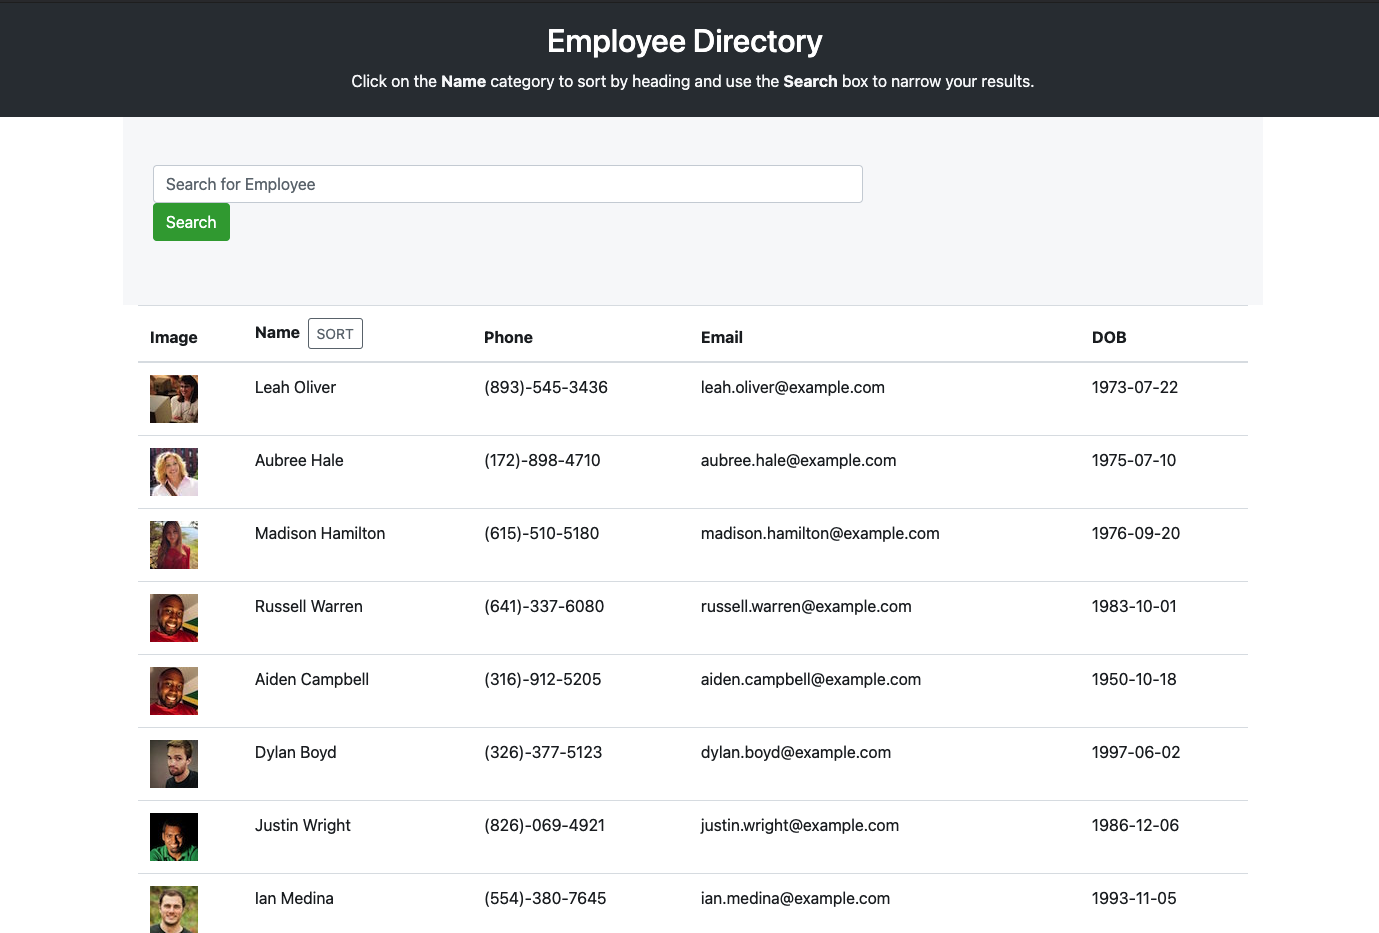
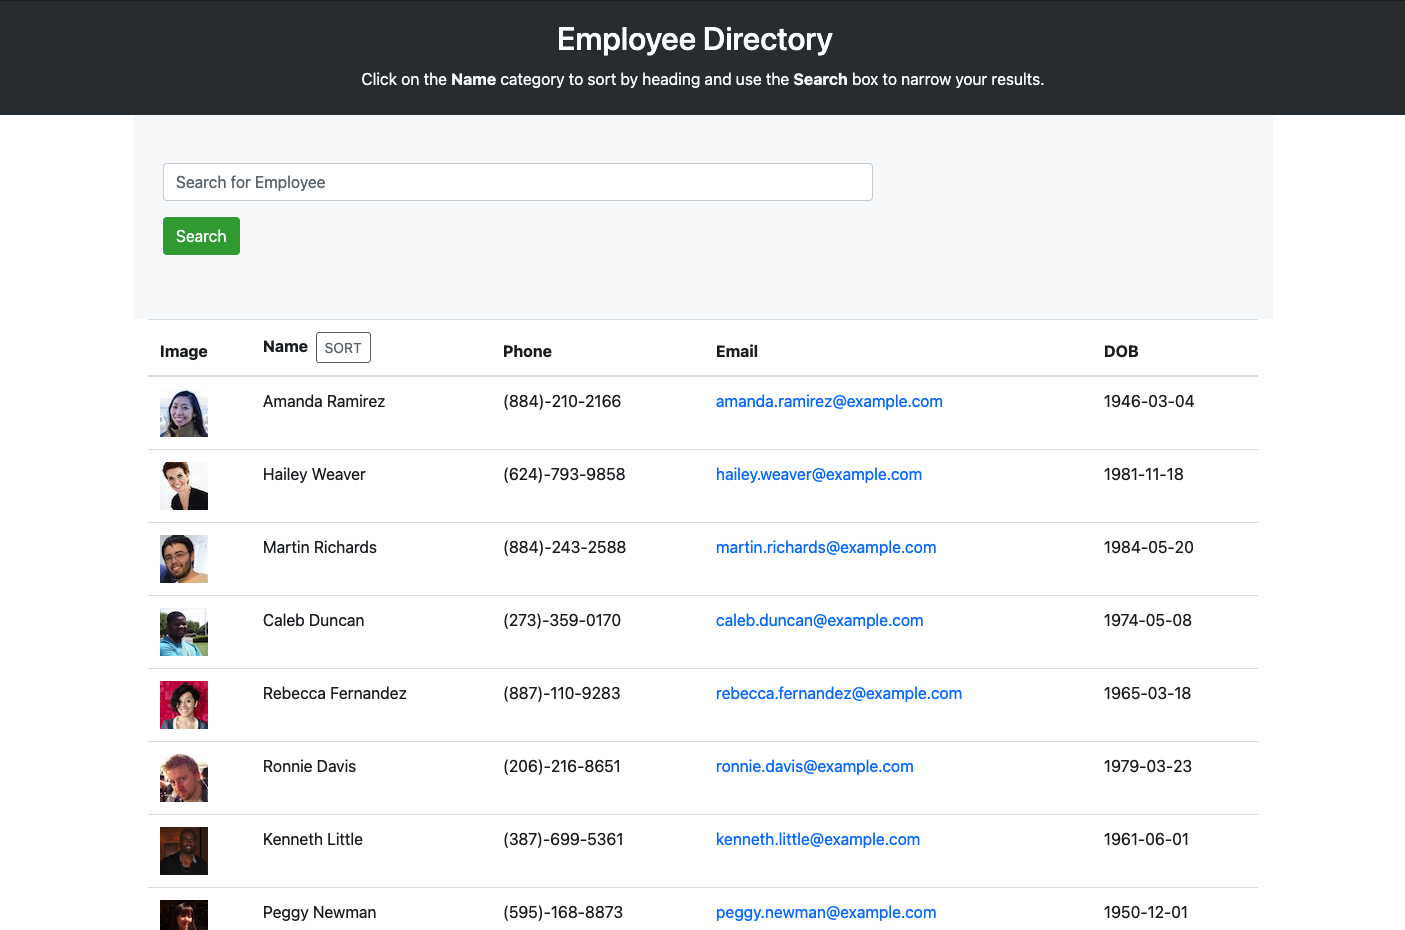
Updates

diff --git a/index.html b/index.html
@@ -1,1 +1,1 @@
-<!doctype html><html lang="en"><head><meta charset="utf-8"/><link rel="icon" href="/expert-employee-directory/favicon.ico"/><meta name="viewport" content="width=device-width,initial-scale=1"/><meta name="theme-color" content="#000000"/><meta name="description" content="Web site created using create-react-app"/><link rel="apple-touch-icon" href="/expert-employee-directory/logo192.png"/><link rel="manifest" href="/expert-employee-directory/manifest.json"/><title>Employee Directory</title><link href="/expert-employee-directory/static/css/2.150d169a.chunk.css" rel="stylesheet"><link href="/expert-employee-directory/static/css/main.4706ad10.chunk.css" rel="stylesheet"></head><body><noscript>You need to enable JavaScript to run this app.</noscript><div id="root"></div><script>!function(e){function r(r){for(var n,i,a=r[0],c=r[1],l=r[2],f=0,s=[];f<a.length;f++)i=a[f],Object.prototype.hasOwnProperty.call(o,i)&&o[i]&&s.push(o[i][0]),o[i]=0;for(n in c)Object.prototype.hasOwnProperty.call(c,n)&&(e[n]=c[n]);for(p&&p(r);s.length;)s.shift()();return u.push.apply(u,l||[]),t()}function t(){for(var e,r=0;r<u.length;r++){for(var t=u[r],n=!0,a=1;a<t.length;a++){var c=t[a];0!==o[c]&&(n=!1)}n&&(u.splice(r--,1),e=i(i.s=t[0]))}return e}var n={},o={1:0},u=[];function i(r){if(n[r])return n[r].exports;var t=n[r]={i:r,l:!1,exports:{}};return e[r].call(t.exports,t,t.exports,i),t.l=!0,t.exports}i.e=function(e){var r=[],t=o[e];if(0!==t)if(t)r.push(t[2]);else{var n=new Promise((function(r,n){t=o[e]=[r,n]}));r.push(t[2]=n);var u,a=document.createElement("script");a.charset="utf-8",a.timeout=120,i.nc&&a.setAttribute("nonce",i.nc),a.src=function(e){return i.p+"static/js/"+({}[e]||e)+"."+{3:"28690317"}[e]+".chunk.js"}(e);var c=new Error;u=function(r){a.onerror=a.onload=null,clearTimeout(l);var t=o[e];if(0!==t){if(t){var n=r&&("load"===r.type?"missing":r.type),u=r&&r.target&&r.target.src;c.message="Loading chunk "+e+" failed.\n("+n+": "+u+")",c.name="ChunkLoadError",c.type=n,c.request=u,t[1](c)}o[e]=void 0}};var l=setTimeout((function(){u({type:"timeout",target:a})}),12e4);a.onerror=a.onload=u,document.head.appendChild(a)}return Promise.all(r)},i.m=e,i.c=n,i.d=function(e,r,t){i.o(e,r)||Object.defineProperty(e,r,{enumerable:!0,get:t})},i.r=function(e){"undefined"!=typeof Symbol&&Symbol.toStringTag&&Object.defineProperty(e,Symbol.toStringTag,{value:"Module"}),Object.defineProperty(e,"__esModule",{value:!0})},i.t=function(e,r){if(1&r&&(e=i(e)),8&r)return e;if(4&r&&"object"==typeof e&&e&&e.__esModule)return e;var t=Object.create(null);if(i.r(t),Object.defineProperty(t,"default",{enumerable:!0,value:e}),2&r&&"string"!=typeof e)for(var n in e)i.d(t,n,function(r){return e[r]}.bind(null,n));return t},i.n=function(e){var r=e&&e.__esModule?function(){return e.default}:function(){return e};return i.d(r,"a",r),r},i.o=function(e,r){return Object.prototype.hasOwnProperty.call(e,r)},i.p="/expert-employee-directory/",i.oe=function(e){throw console.error(e),e};var a=this["webpackJsonpexpert-employee-directory"]=this["webpackJsonpexpert-employee-directory"]||[],c=a.push.bind(a);a.push=r,a=a.slice();for(var l=0;l<a.length;l++)r(a[l]);var p=c;t()}([])</script><script src="/expert-employee-directory/static/js/2.0770690c.chunk.js"></script><script src="/expert-employee-directory/static/js/main.d8e5f72f.chunk.js"></script></body></html>
+<!doctype html><html lang="en"><head><meta charset="utf-8"/><link rel="icon" href="/expert-employee-directory/favicon.ico"/><meta name="viewport" content="width=device-width,initial-scale=1"/><meta name="theme-color" content="#000000"/><meta name="description" content="Web site created using create-react-app"/><link rel="apple-touch-icon" href="/expert-employee-directory/logo192.png"/><link rel="manifest" href="/expert-employee-directory/manifest.json"/><title>Employee Directory</title><link href="/expert-employee-directory/static/css/2.150d169a.chunk.css" rel="stylesheet"><link href="/expert-employee-directory/static/css/main.4706ad10.chunk.css" rel="stylesheet"></head><body><noscript>You need to enable JavaScript to run this app.</noscript><div id="root"></div><script>!function(e){function r(r){for(var n,i,a=r[0],c=r[1],l=r[2],f=0,s=[];f<a.length;f++)i=a[f],Object.prototype.hasOwnProperty.call(o,i)&&o[i]&&s.push(o[i][0]),o[i]=0;for(n in c)Object.prototype.hasOwnProperty.call(c,n)&&(e[n]=c[n]);for(p&&p(r);s.length;)s.shift()();return u.push.apply(u,l||[]),t()}function t(){for(var e,r=0;r<u.length;r++){for(var t=u[r],n=!0,a=1;a<t.length;a++){var c=t[a];0!==o[c]&&(n=!1)}n&&(u.splice(r--,1),e=i(i.s=t[0]))}return e}var n={},o={1:0},u=[];function i(r){if(n[r])return n[r].exports;var t=n[r]={i:r,l:!1,exports:{}};return e[r].call(t.exports,t,t.exports,i),t.l=!0,t.exports}i.e=function(e){var r=[],t=o[e];if(0!==t)if(t)r.push(t[2]);else{var n=new Promise((function(r,n){t=o[e]=[r,n]}));r.push(t[2]=n);var u,a=document.createElement("script");a.charset="utf-8",a.timeout=120,i.nc&&a.setAttribute("nonce",i.nc),a.src=function(e){return i.p+"static/js/"+({}[e]||e)+"."+{3:"28690317"}[e]+".chunk.js"}(e);var c=new Error;u=function(r){a.onerror=a.onload=null,clearTimeout(l);var t=o[e];if(0!==t){if(t){var n=r&&("load"===r.type?"missing":r.type),u=r&&r.target&&r.target.src;c.message="Loading chunk "+e+" failed.\n("+n+": "+u+")",c.name="ChunkLoadError",c.type=n,c.request=u,t[1](c)}o[e]=void 0}};var l=setTimeout((function(){u({type:"timeout",target:a})}),12e4);a.onerror=a.onload=u,document.head.appendChild(a)}return Promise.all(r)},i.m=e,i.c=n,i.d=function(e,r,t){i.o(e,r)||Object.defineProperty(e,r,{enumerable:!0,get:t})},i.r=function(e){"undefined"!=typeof Symbol&&Symbol.toStringTag&&Object.defineProperty(e,Symbol.toStringTag,{value:"Module"}),Object.defineProperty(e,"__esModule",{value:!0})},i.t=function(e,r){if(1&r&&(e=i(e)),8&r)return e;if(4&r&&"object"==typeof e&&e&&e.__esModule)return e;var t=Object.create(null);if(i.r(t),Object.defineProperty(t,"default",{enumerable:!0,value:e}),2&r&&"string"!=typeof e)for(var n in e)i.d(t,n,function(r){return e[r]}.bind(null,n));return t},i.n=function(e){var r=e&&e.__esModule?function(){return e.default}:function(){return e};return i.d(r,"a",r),r},i.o=function(e,r){return Object.prototype.hasOwnProperty.call(e,r)},i.p="/expert-employee-directory/",i.oe=function(e){throw console.error(e),e};var a=this["webpackJsonpexpert-employee-directory"]=this["webpackJsonpexpert-employee-directory"]||[],c=a.push.bind(a);a.push=r,a=a.slice();for(var l=0;l<a.length;l++)r(a[l]);var p=c;t()}([])</script><script src="/expert-employee-directory/static/js/2.0770690c.chunk.js"></script><script src="/expert-employee-directory/static/js/main.2af9a9cf.chunk.js"></script></body></html>

diff --git a/static/js/main.2af9a9cf.chunk.js b/static/js/main.2af9a9cf.chunk.js
@@ -1,0 +1,2 @@
+(this["webpackJsonpexpert-employee-directory"]=this["webpackJsonpexpert-employee-directory"]||[]).push([[0],{13:function(e,t,n){},16:function(e,t,n){"use strict";n.r(t);var c=n(1),r=n.n(c),s=n(8),a=n.n(s),o=n(2),l=n(3),i=n(5),d=n(4),j=(n(13),n(0)),h=function(e){Object(i.a)(n,e);var t=Object(d.a)(n);function n(){return Object(o.a)(this,n),t.apply(this,arguments)}return Object(l.a)(n,[{key:"render",value:function(){return Object(j.jsx)("div",{children:Object(j.jsxs)("nav",{className:"navbar navbar-dark bg-dark",children:[Object(j.jsx)("div",{className:"container-fluid justify-content-center",children:Object(j.jsx)("span",{className:"navbar-brand mb-0 h1 text-center",children:"Employee Directory"})}),Object(j.jsx)("div",{className:"container-fluid justify-content-center",children:Object(j.jsxs)("p",{className:"text-light",children:["Click on the ",Object(j.jsx)("strong",{children:"Name"})," category to sort by heading and use the ",Object(j.jsx)("strong",{children:"Search"})," box to narrow your results."]})})]})})}}]),n}(c.Component),m=n(7),b=function(e){var t=e.image,n=e.name,c=e.phone,r=e.email,s=e.dob;return Object(j.jsxs)("tr",{children:[Object(j.jsx)("td",{children:Object(j.jsx)("img",{src:t,alt:"employee photo"})}),Object(j.jsx)("td",{children:n}),Object(j.jsx)("td",{children:c}),Object(j.jsx)("td",{children:Object(j.jsx)("a",{href:"mailto:{email}",children:r})}),Object(j.jsx)("td",{children:s.substring(0,10)})]})},u=function(e){return Object(j.jsx)("div",{className:"row bg-light",children:Object(j.jsx)("div",{className:"col-md-12 mt-5 mb-5",children:Object(j.jsx)("form",{children:Object(j.jsxs)("div",{className:"form-group",children:[Object(j.jsx)("div",{className:"col-md-8",children:Object(j.jsx)("input",{type:"text",className:"form-control mb-3",id:"employee",name:"searchEmployee",placeholder:"Search for Employee",value:e.searchEmployee,onChange:e.handleSearch})}),Object(j.jsx)("div",{className:"col-md-4",children:Object(j.jsx)("button",{type:"submit",className:"btn btn-success",children:"Search"})})]})})})})},p=function(e){Object(i.a)(n,e);var t=Object(d.a)(n);function n(){var e;Object(o.a)(this,n);for(var c=arguments.length,r=new Array(c),s=0;s<c;s++)r[s]=arguments[s];return(e=t.call.apply(t,[this].concat(r))).state={employees:[],filteredEmployees:[],searchEmployee:"",sortBy:""},e.handleSearch=function(t){var n=t.target,c=(n.name,n.value),r=e.state.employees.filter((function(e){return!!e.name.toLowerCase().includes(c.toLowerCase())}));e.setState({filteredEmployees:r})},e.handleSort=function(){var t=e.state.filteredEmployees;""===e.state.sortName||"zToA"===e.state.sortName?(t.sort((function(e,t){return e.name.localeCompare(t.name)})),e.setState({filteredEmployees:t,sortName:"aToZ"})):"aToZ"===e.state.sortName&&(t.sort((function(e,t){return t.namelocaleCompare(e.name)})),e.setState({filteredEmployees:t,sortName:"zToA"}))},e}return Object(l.a)(n,[{key:"componentDidMount",value:function(){var e=this;fetch("https://randomuser.me/api/?results=50&nat=us").then((function(e){return e.json()})).then((function(t){var n=t.results.map((function(e){return{id:e.login.uuid,image:e.picture.thumbnail,name:e.name.first+" "+e.name.last,phone:e.phone,email:e.email,dob:e.dob.date}}));e.setState({employees:n,filteredEmployees:n})})).catch((function(e){return console.log(e)}))}},{key:"render",value:function(){return Object(j.jsxs)("div",{className:"container",children:[Object(j.jsx)(u,{handleSearch:this.handleSearch}),Object(j.jsx)("div",{className:"row",children:Object(j.jsx)("div",{className:"col",children:Object(j.jsxs)("table",{className:"table",children:[Object(j.jsx)("thead",{children:Object(j.jsxs)("tr",{children:[Object(j.jsx)("th",{scope:"col",children:"Image"}),Object(j.jsxs)("th",{scope:"col",children:["Name \xa0",Object(j.jsx)("button",{className:"btn btn-outline-secondary btn-sm",onClick:this.handleSort,children:"SORT"})]}),Object(j.jsx)("th",{scope:"col",children:"Phone"}),Object(j.jsx)("th",{scope:"col",children:"Email"}),Object(j.jsx)("th",{scope:"col",children:"DOB"})]})}),Object(j.jsx)("tbody",{children:this.state.filteredEmployees.map((function(e){return Object(c.createElement)(b,Object(m.a)(Object(m.a)({},e),{},{key:e.id}))}))})]})})})]})}}]),n}(c.Component);var O=function(){return Object(j.jsxs)("div",{className:"App",children:[Object(j.jsx)(h,{}),Object(j.jsx)(p,{})]})},x=function(e){e&&e instanceof Function&&n.e(3).then(n.bind(null,17)).then((function(t){var n=t.getCLS,c=t.getFID,r=t.getFCP,s=t.getLCP,a=t.getTTFB;n(e),c(e),r(e),s(e),a(e)}))};n(15);a.a.render(Object(j.jsx)(r.a.StrictMode,{children:Object(j.jsx)(O,{})}),document.getElementById("root")),x()}},[[16,1,2]]]);
+//# sourceMappingURL=main.2af9a9cf.chunk.js.map
